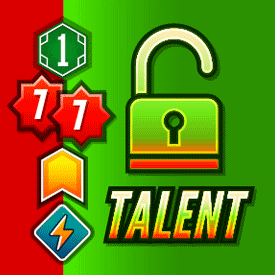
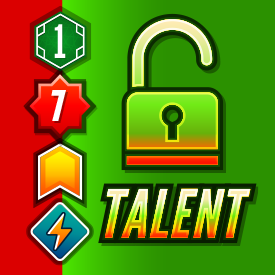
GUERRILLAS: tweak unit attacks

diff --git a/server/classes/factions/Guerrillas.js b/server/classes/factions/Guerrillas.js
@@ -52,13 +52,12 @@ class Guerrillas extends Faction {
 
         this.units['talent'].count = 4;
         //this.units['talent'].data.redeployFree = true;
-        this.units['talent'].data.attack = [7, 7];
 
         this.units['mole'].count = 4;
         //this.units['mole'].data.redeployFree = true;
 
         this.units['patsy'].count = 6;
-        this.units['patsy'].data.attack = [9, 9];
+        this.units['patsy'].data.attack = [8, 8];
 
         this.units['champion'] = {
             count: 1,
